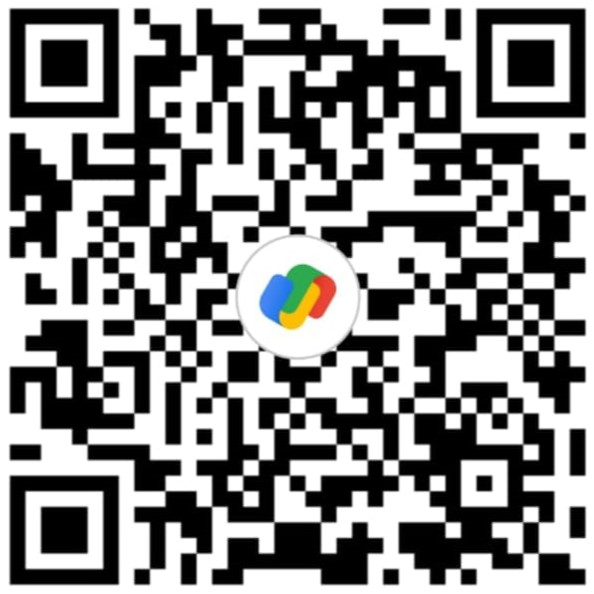
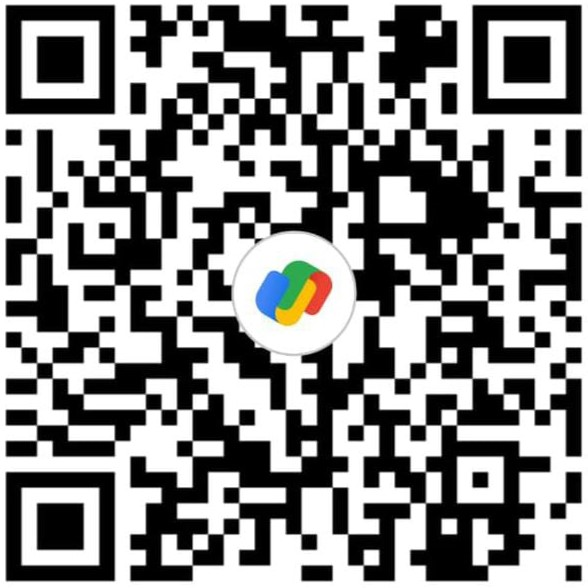
Payment Updation

diff --git a/src/pages/EventPage.js b/src/pages/EventPage.js
@@ -87,7 +87,7 @@ function EventPage({ eventDesc }) {
         ) : null}
 
         <div className="py-5 tap-highlight-transparent">
-          { timeExpired ?
+          { eventDesc.eventDescription === "Paper Presentation" ?
           (<button class="bg-orange-500 text-white font-semibold text-lg lg:text-xl py-1 lg:py-2 lg:px-5 px-3 mx-10 rounded cursor-not-allowed inline-flex items-center justify-center">
              <img src="/assets/icons/register1.png" className="w-9" />
              <span>Oops! Registration Closed</span>

diff --git a/src/components/Footer.js b/src/components/Footer.js
@@ -65,7 +65,7 @@ function Footer() {
             <ul className="pl-5 text-lg ">
               <li> Jegan - +91 9025450960</li>
               <li> Gowtham - +91 8778293837</li>
-              <li> UPI ID - ravijegan2003-1@oksbi</li>
+              <li> UPI ID - ravijegan2003@okhdfcbank</li>
             </ul>
           </div>
 
